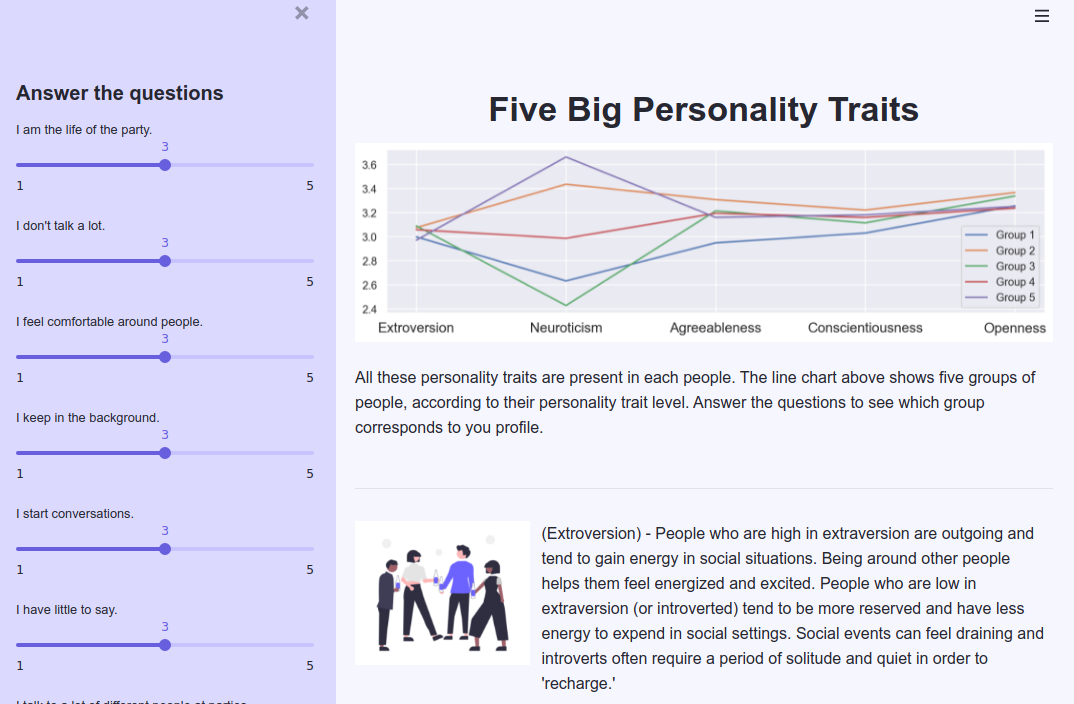
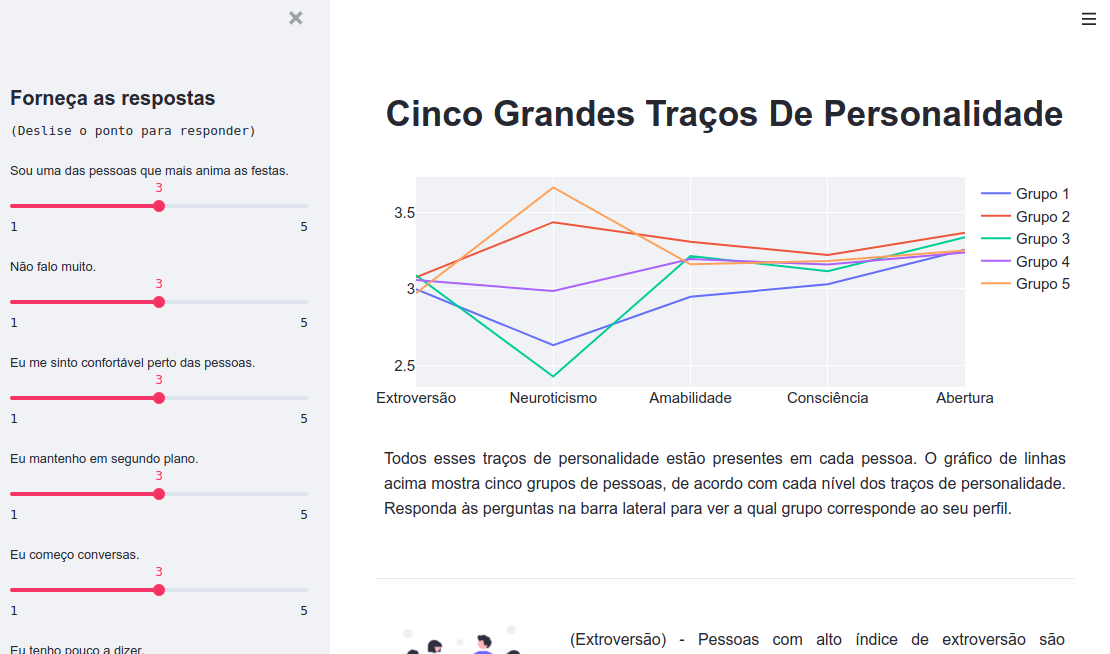
format html components

diff --git a/Personality_Test.py b/Personality_Test.py
@@ -6,6 +6,7 @@ import plotly.express as px
 import streamlit.components.v1 as components
 import plotly.graph_objects as go
 
+
 # Salva modelo treinado em arquivo no disco
 from joblib import dump, load
 
@@ -64,18 +65,19 @@ fig.update_layout(
     title="",
     font=dict(size=15),
     autosize=False,
-    height=250,
+    height=260,
     margin=dict(l=0, r=0, t=30, b=20)
     )
 st.write(fig)
 
 
-st.write("""
-    Todos esses traços de personalidade estão presentes em cada pessoa. 
-    O gráfico de linhas acima mostra cinco grupos de pessoas, de acordo 
-    com seu nível de traço de personalidade. Responda às perguntas na barra lateral 
-    para ver a qual grupo corresponde ao seu perfil.
-""")
+components.html("""
+    <p style="text-align: justify; font-family:sans-serif; font-size: 1rem; font-weight: 400; color: rgb(38, 39, 48); line-height: 1.6">
+        Todos esses traços de personalidade estão presentes em cada pessoa. 
+        O gráfico de linhas acima mostra cinco grupos de pessoas, de acordo 
+        com cada nível dos traços de personalidade. Responda às perguntas na barra lateral 
+        para ver a qual grupo corresponde ao seu perfil.
+    </p>""", height=100)
 st.markdown("""---""")
 
 
@@ -97,7 +99,7 @@ def run_algorithm():
     profile_group = model.predict(user_inputs)[0] # kmeans
     
     group_ident = f'Seu perfil corresponde ao Grupo {profile_group + 1}'
-    st.markdown(f"<h1 style='text-align: center'>{group_ident}</h1>", unsafe_allow_html=True)
+    st.markdown(f"<h2 style='text-align: center'>{group_ident}</h2>", unsafe_allow_html=True)
 
 
     # Gera o gráfico do perfil correspondente
@@ -124,46 +126,64 @@ if st.sidebar.button('Analisar Perfil'):
 col1, col2 = st.beta_columns([1,3])
 
 col1.image("img/extroversion.png")
-col2.write("""
-    (Extroversão) - Pessoas com alto índice de extroversão são extrovertidas e tendem a ganhar energia em situações sociais. Estar perto de outras pessoas os ajuda a se sentirem energizados e animados.
-Pessoas com baixa extroversão (ou introvertidas) tendem a ser mais reservadas e têm menos energia para gastar em ambientes sociais. Os eventos sociais podem parecer exaustivos e os introvertidos costumam exigir um período de solidão e sossego para "recarregar as energias".
-""")
-
+with col2:
+    components.html("""
+    <p style="text-align: justify; font-family:sans-serif; font-size: 1rem; font-weight: 400; color: rgb(38, 39, 48); line-height: 1.6">
+        (Extroversão) - Pessoas com alto índice de extroversão são extrovertidas e tendem a ganhar energia em situações 
+        sociais. Estar perto de outras pessoas os ajuda a se sentirem energizados e animados. Pessoas com baixa extroversão 
+        (ou introvertidas) tendem a ser mais reservadas e têm menos energia para gastar em ambientes sociais. Os eventos 
+        sociais podem parecer exaustivos e os introvertidos costumam exigir um período de solidão e sossego para 
+        'recarregar as energias'.
+    </p>""", height=225)
 
 st.markdown("""---""")
 col1, col2 = st.beta_columns([1,3])
 
 
 col1.image("img/neuroticism.png")
-col2.write("""
-    (Neuroticismo) - Neuroticismo é um traço caracterizado por tristeza, mau humor e instabilidade emocional.
-Indivíduos com alto teor dessa característica tendem a sofrer oscilações de humor, ansiedade, irritabilidade e tristeza. Aqueles com baixo nível dessa característica tendem a ser mais estáveis e emocionalmente resilientes.
-""")
+with col2:
+    components.html("""
+    <p style="text-align: justify; font-family:sans-serif; font-size: 1rem; font-weight: 400; color: rgb(38, 39, 48); line-height: 1.6">
+        (Neuroticismo) - Neuroticismo é um traço caracterizado por tristeza, 
+        mau humor e instabilidade emocional. Indivíduos com alto teor dessa característica tendem a sofrer oscilações 
+        de humor, ansiedade, irritabilidade e tristeza. Aqueles com baixo nível dessa característica tendem a ser mais 
+        estáveis e emocionalmente resilientes.
+    </p>""")
 
 st.markdown("""---""")
 col1, col2 = st.beta_columns([1,3])
 
+
 col1.image("img/agreeableness.png")
-col2.write("""
-    (Amabilidade) - Essa dimensão da personalidade inclui atributos como confiança, altruísmo, gentileza, afeto e outros comportamentos pró-sociais. Pessoas com alto nível de gentileza tendem a ser mais cooperativas, enquanto aqueles com baixo nível desse traço tendem a ser mais competitivos e às vezes até manipuladores.
-""")
+with col2:
+    components.html("""
+    <p style="text-align: justify; font-family:sans-serif; font-size: 1rem; font-weight: 400; color: rgb(38, 39, 48); line-height: 1.6">
+        (Amabilidade) - Essa dimensão da personalidade inclui atributos como confiança, altruísmo, gentileza, afeto e outros comportamentos pró-sociais. Pessoas com alto nível de gentileza tendem a ser mais cooperativas, enquanto aqueles com baixo nível desse traço tendem a ser mais competitivos e às vezes até manipuladores.
+    </p>""")
 
 st.markdown("""---""")
 col1, col2 = st.beta_columns([1,3])
 
 col1.image("img/conscientiousness.png")
-col2.write("""
-    (Consciência) - As características padrão dessa dimensão incluem altos níveis de consideração, bom controle de impulsos e comportamentos direcionados a objetivos. Pessoas altamente conscienciosas tendem a ser organizadas e atentas aos detalhes. Eles planejam com antecedência, pensam sobre como seu comportamento afeta os outros e estão atentos aos prazos.
-""")
+with col2:
+    components.html("""
+    <p style="text-align: justify; font-family:sans-serif; font-size: 1rem; font-weight: 400; color: rgb(38, 39, 48); line-height: 1.6">
+        (Consciência) - As características padrão dessa dimensão incluem altos níveis de consideração, bom controle de 
+        impulsos e comportamentos direcionados a objetivos. Pessoas altamente conscienciosas tendem a ser organizadas 
+        e atentas aos detalhes. Eles planejam com antecedência, pensam sobre como seu comportamento afeta os outros e 
+        estão atentos aos prazos.
+    </p>""", height=180)
 
 st.markdown("""---""")
 col1, col2 = st.beta_columns([1,3])
 
 col1.image("img/openness.png")
-col2.write("""
-    (Abertura) - Esse traço apresenta características como imaginação e percepção.
-Pessoas com alto valor nesse traço também tendem a ter uma ampla gama de interesses. Eles são curiosos sobre o mundo e outras pessoas e estão ansiosos para aprender coisas novas e desfrutar de novas experiências.
-Pessoas com alto nível desse atributo tendem a ser mais aventureiras e criativas. Pessoas com baixo nível dessa característica costumam ser muito mais tradicionais e podem ter dificuldades com o pensamento abstrato.
-""")
+with col2:
+    components.html("""
+    <p style="text-align: justify; font-family:sans-serif; font-size: 1rem; font-weight: 400; color: rgb(38, 39, 48); line-height: 1.6">
+        (Abertura) - Esse traço apresenta características como imaginação e percepção.
+        Pessoas com alto valor nesse traço também tendem a ter uma ampla gama de interesses. Eles são curiosos sobre o mundo e outras pessoas e estão ansiosos para aprender coisas novas e desfrutar de novas experiências.
+        Pessoas com alto nível desse atributo tendem a ser mais aventureiras e criativas. Pessoas com baixo nível dessa característica costumam ser muito mais tradicionais e podem ter dificuldades com o pensamento abstrato.
+    </p>""", height=235)
 
 st.write("fonte: https://www.verywellmind.com/")
